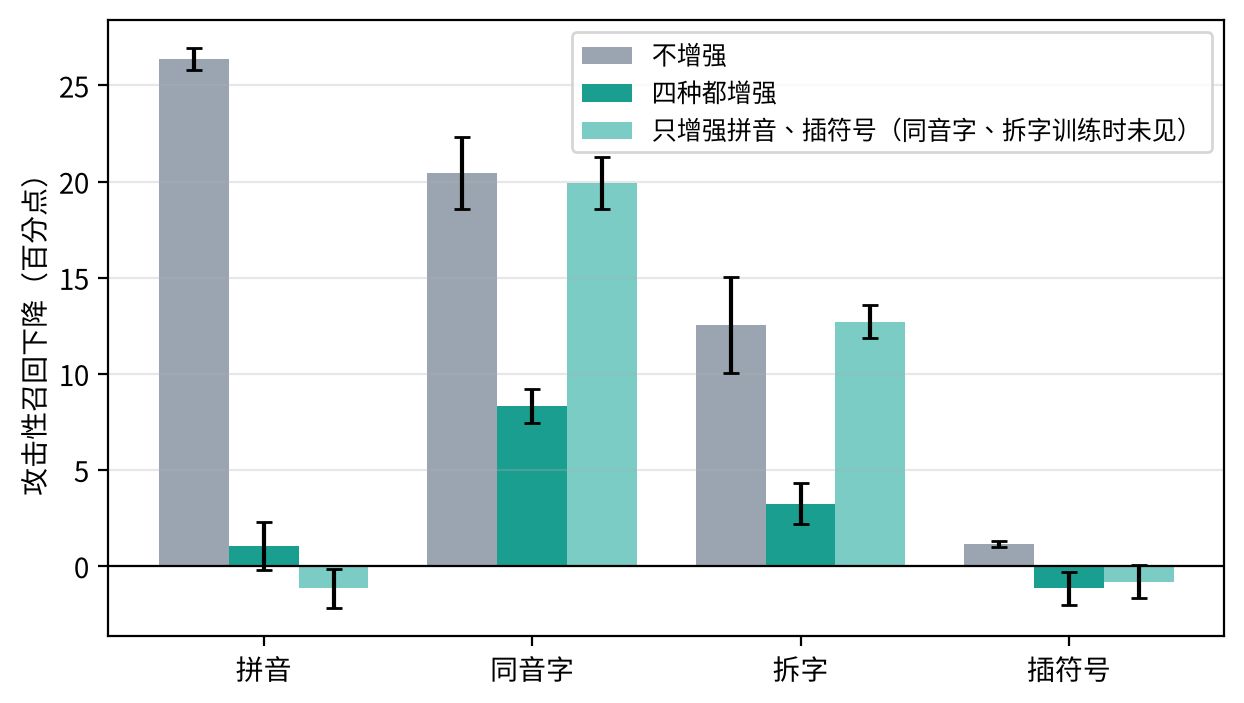
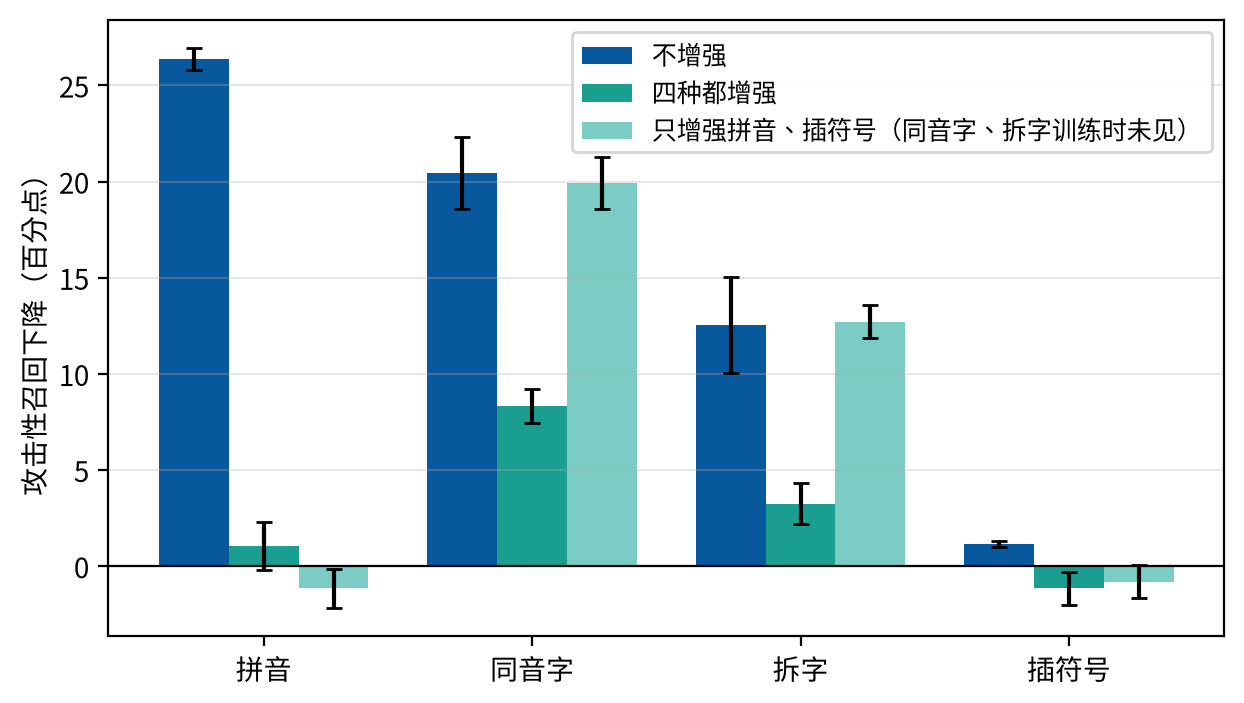
增强对比图的基线改用深蓝

diff --git a/src/figs_report2_d.py b/src/figs_report2_d.py
@@ -19,7 +19,7 @@ import matplotlib.pyplot as plt  # noqa: E402
 
 FIG = ROOT / "figures"
 KIND_NAMES = {"pinyin": "拼音", "homophone": "同音字", "chaizi": "拆字", "symbol": "插符号"}
-C_BASE, C_ALL, C_HELD = PALETTE["gray"], PALETTE["teal"], PALETTE["cyan"]
+C_BASE, C_ALL, C_HELD = PALETTE["navy"], PALETTE["teal"], PALETTE["cyan"]
 
 
 def fig_d1():
